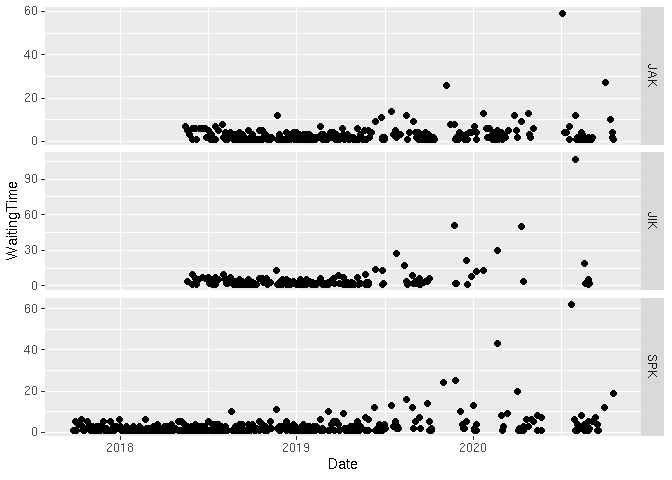
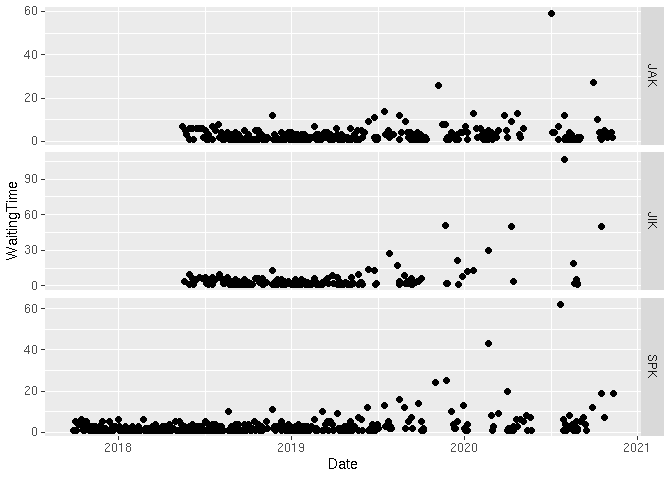
Updated analysis with new data

diff --git a/analysis/nyt_mini_crossword.md b/analysis/nyt_mini_crossword.md
@@ -1,7 +1,7 @@
 ---
 title: "New York Time Mini Crossword"
 author: "Stephen Kaluzny"
-date: "17 October, 2020"
+date: "12 November, 2020"
 output:
   html_document:
     keep_md: true
@@ -167,7 +167,7 @@ d %>%
 
 ## Summary Statistics
 
-Current data set has 973 observations.
+Current data set has 983 observations.
 
 
 ```r
@@ -184,12 +184,12 @@ d %>% group_by(Player) %>%
 ## # A tibble: 6 x 6
 ##   Player  Mean Median   Min   Max     N
 ##   <chr>  <dbl>  <dbl> <dbl> <dbl> <int>
-## 1 SKK     51       47    21    89     4
-## 2 AKK     55       55    55    55     1
-## 3 JIK     82.6     62    13   264   187
-## 4 SPK    106.      87    18   455   414
-## 5 JAK    104.      89    27   454   313
-## 6 BBK    117.     102    42   350    54
+## 1 SKK     51     47      21    89     4
+## 2 AKK     55     55      55    55     1
+## 3 JIK     82.5   62      13   264   188
+## 4 SPK    106.    87      18   455   416
+## 5 JAK    104.    87.5    27   454   320
+## 6 BBK    117.   102      42   350    54
 ```
 
 ## Subset the Data
@@ -204,7 +204,7 @@ d <- d %>%
   filter(Player %in% c("SPK", "JAK", "JIK"))
 ```
 
-Now have 914 observations.
+Now have 924 observations.
 
 ## Plots
 
@@ -309,10 +309,10 @@ sessionInfo()
 ```
 ## R version 4.0.2 (2020-06-22)
 ## Platform: x86_64-pc-linux-gnu (64-bit)
-## Running under: Ubuntu 18.04.5 LTS
+## Running under: Ubuntu 20.04.1 LTS
 ## 
 ## Matrix products: default
-## BLAS:   /usr/lib/x86_64-linux-gnu/libf77blas.so.3.10.3
+## BLAS:   /home/R/R-4.0.2/lib/R/lib/libRblas.so
 ## LAPACK: /home/R/R-4.0.2/lib/R/lib/libRlapack.so
 ## 
 ## locale:
@@ -333,8 +333,8 @@ sessionInfo()
 ##  [1] Rcpp_1.0.5       pillar_1.4.6     compiler_4.0.2   tools_4.0.2     
 ##  [5] digest_0.6.25    lubridate_1.7.9  evaluate_0.14    lifecycle_0.2.0 
 ##  [9] tibble_3.0.3     gtable_0.3.0     pkgconfig_2.0.3  rlang_0.4.7     
-## [13] cli_2.0.2        yaml_2.2.1       xfun_0.17        withr_2.3.0     
-## [17] stringr_1.4.0    knitr_1.30       generics_0.0.2   vctrs_0.3.4     
+## [13] cli_2.0.2        yaml_2.2.1       xfun_0.17        withr_2.2.0     
+## [17] stringr_1.4.0    knitr_1.29       generics_0.0.2   vctrs_0.3.4     
 ## [21] hms_0.5.3        rprojroot_1.3-2  grid_4.0.2       tidyselect_1.1.0
 ## [25] glue_1.4.2       here_0.1         R6_2.4.1         fansi_0.4.1     
 ## [29] rmarkdown_2.3    farver_2.0.3     purrr_0.3.4      magrittr_1.5    
